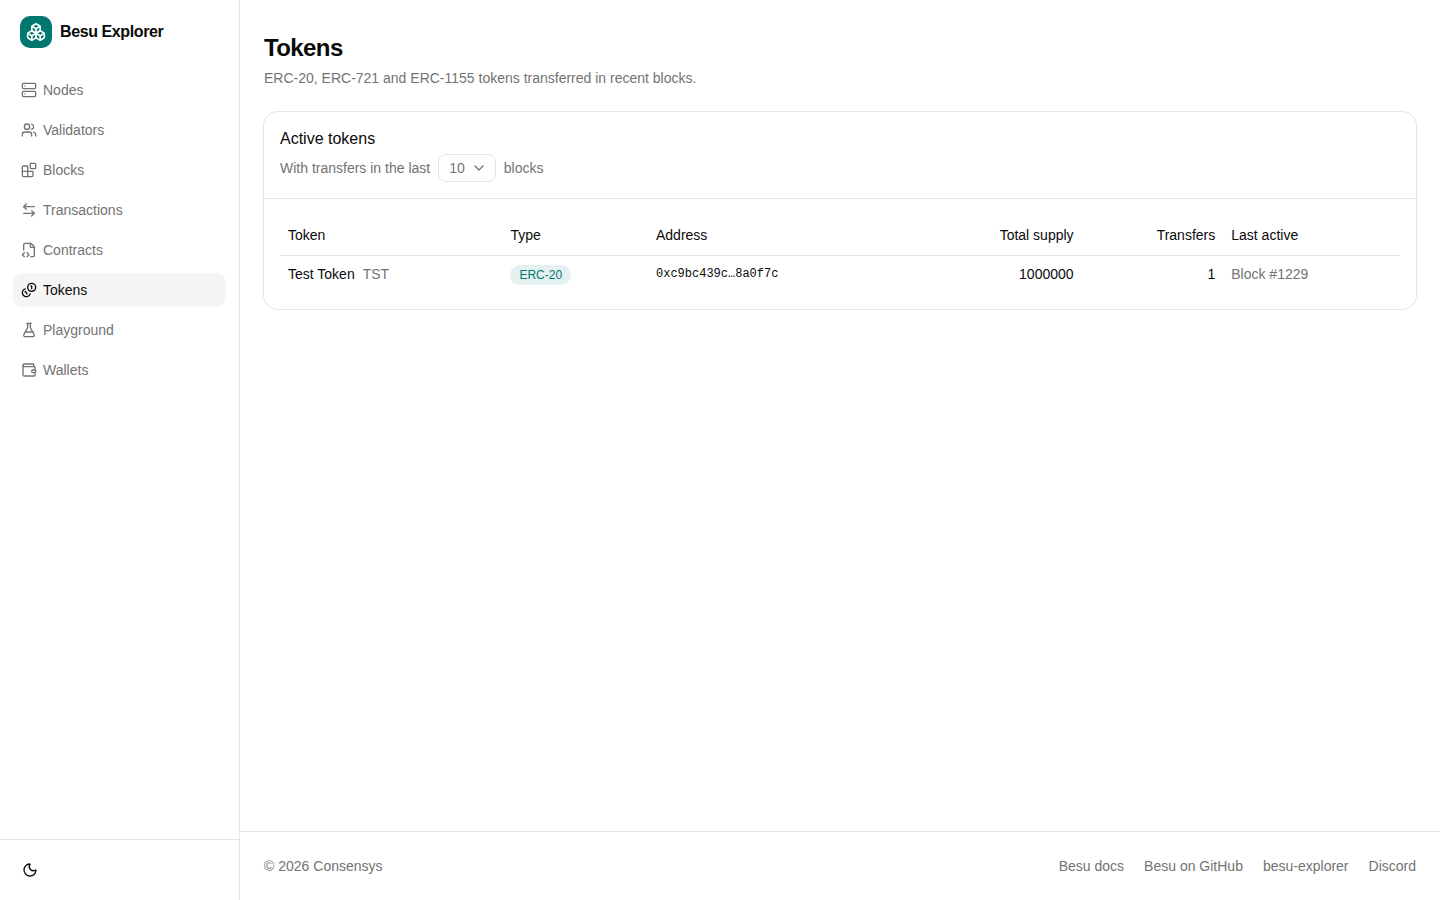
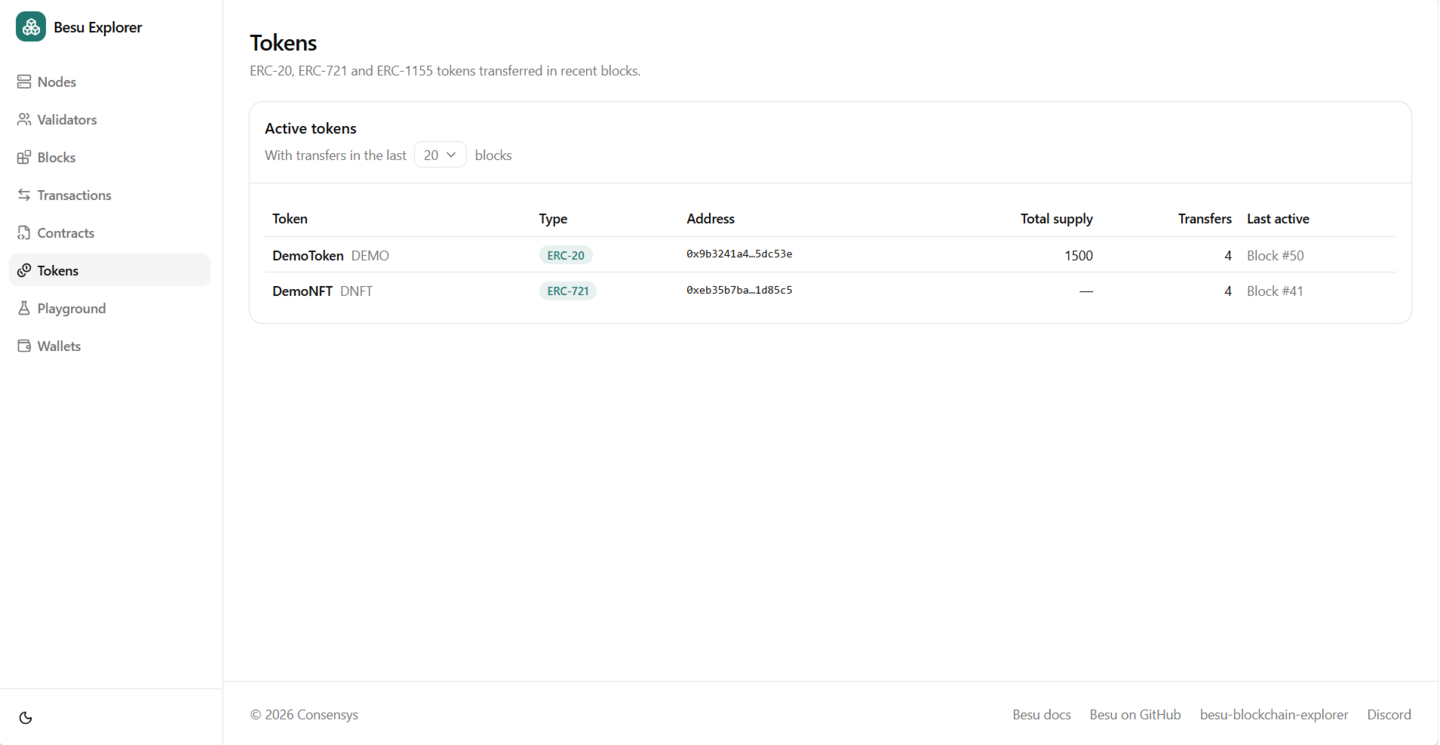
update screenshots

diff --git a/docs/README.md b/docs/README.md
@@ -50,7 +50,7 @@ Next.js 16 (Pages Router), React 19, TypeScript, Tailwind CSS v4, [shadcn/ui](ht
 
 - [Node.js](https://nodejs.org/) 24 LTS
 - [Docker](https://www.docker.com/) (optional)
-- A Besu network, for example from the [Besu Dev Quickstart](https://www.npmjs.com/package/@consensys-software/besu-dev-quickstart)
+- A Besu network, for example from the [Besu Dev Quickstart](https://www.npmjs.com/package/@consensys/besu-dev-quickstart)
 
 The explorer reads from a single node. Enable these JSON-RPC API groups on it with `--rpc-http-api`:
 
@@ -77,7 +77,7 @@ The server only proxies requests to the configured RPC URLs, and only for an all
 > [!WARNING]
 > Only use this on demo and test networks, never in production. It needs each validator's RPC endpoint and lets anyone signed in to the explorer vote validators in or out.
 
-Proposing or discarding a validator vote has to be sent to each validator's own RPC endpoint. To enable voting, provide a file listing them at `/config/validators.json`, or set `BE_VALIDATORS_CONFIG_PATH` to another path. The [Besu Dev Quickstart](https://www.npmjs.com/package/@consensys-software/besu-dev-quickstart) includes one for its network:
+Proposing or discarding a validator vote has to be sent to each validator's own RPC endpoint. To enable voting, provide a file listing them at `/config/validators.json`, or set `BE_VALIDATORS_CONFIG_PATH` to another path. The [Besu Dev Quickstart](https://www.npmjs.com/package/@consensys/besu-dev-quickstart) includes one for its network:
 
 ```json
 {
